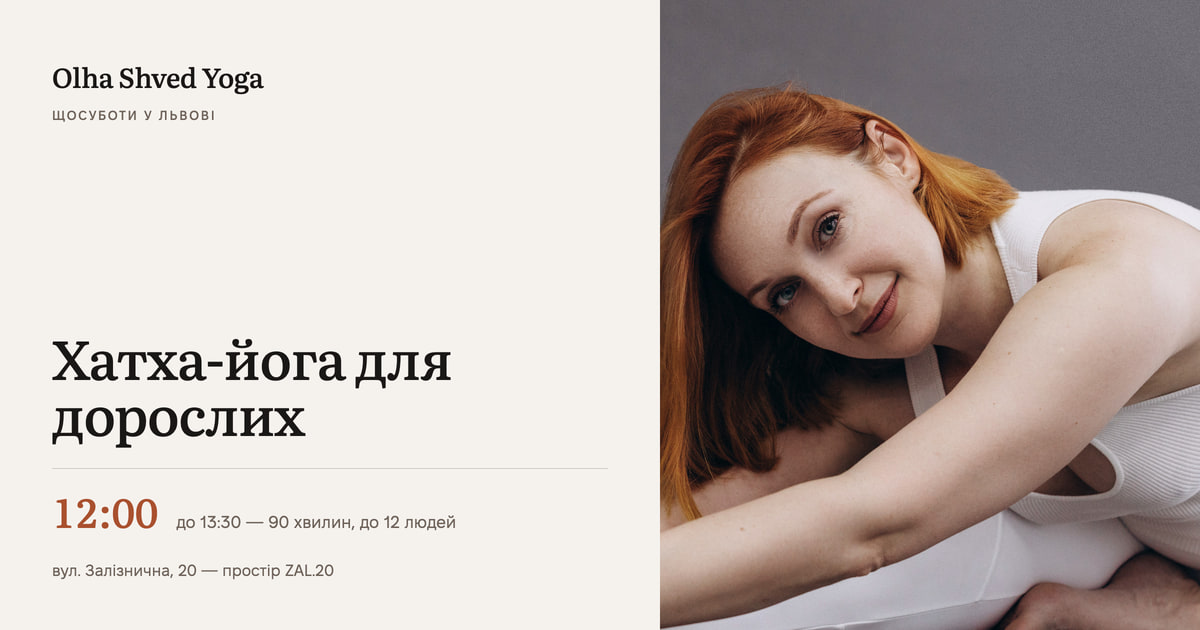
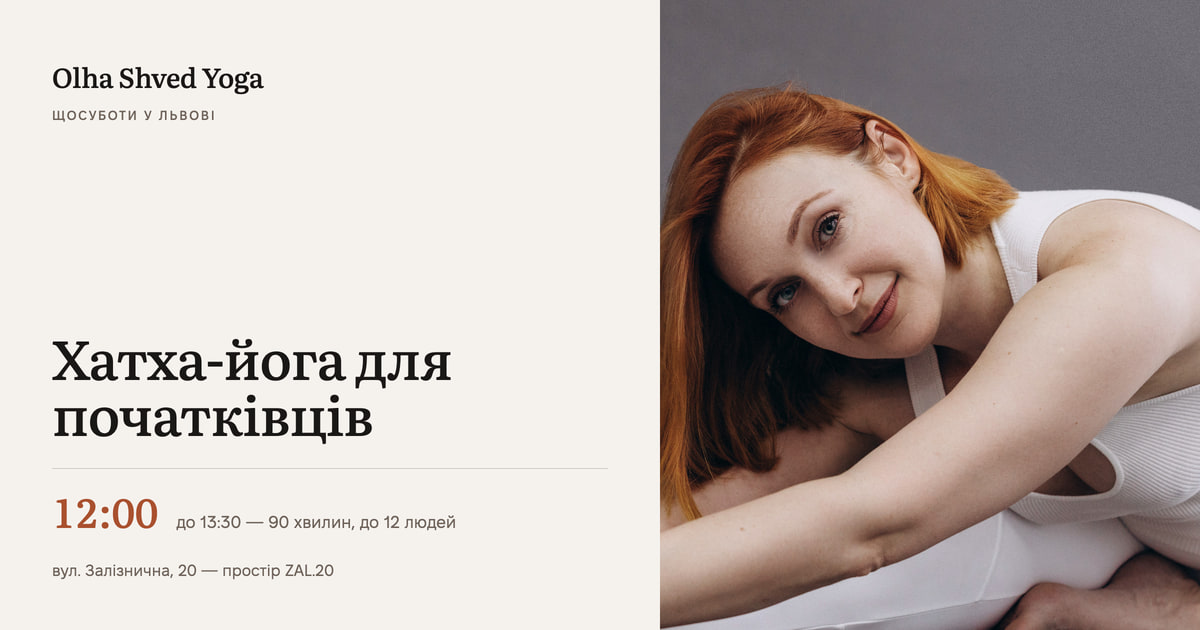
content: направление переименовано в «Хатха-йога для початківців»
Новое название по всей странице: герой, переключатель напрямів, расписание,
«Про мене», мета-описание и alt соц-картинки. Соц-карточки пересобраны —
название есть на двух из трёх.

Глоссарий переписан: «йога для початківців» стояла в _Avoid_ с обоснованием
«початківці — це аудиторія напряму, а не його назва». Решение клиента главнее,
в _Avoid_ теперь старая формулировка.

Попутно починена регрессия: ряд расписания был flex-wrap, и с длинным
названием время срывалось на отдельную строку и липло влево — ряды
перестали совпадать (134px против 104px на 390). Теперь ряд — сетка из двух
колонок, время остаётся справа на уровне первой строки названия.

Claude-Session: https://claude.ai/code/session_01UWm9iWKT7KGwptHhFos538

Changed region(s): [[0.0308, 0.6333, 0.3083, 0.7238]]

diff --git a/site/src/content/site.ts b/site/src/content/site.ts
@@ -14,13 +14,13 @@ export const meta = {
   brand: "Olha Shved Yoga",
   title: "Olha Shved Yoga — хатха-йога та прасу-йога для вагітних у Львові",
   description:
-    "Хатха-йога для дорослих і прасу-йога для вагітних у Львові. Невеликі групи, щосуботи на вул. Залізнична, 20. Перше заняття — 500 ₴.",
+    "Хатха-йога для початківців і прасу-йога для вагітних у Львові. Невеликі групи, щосуботи на вул. Залізнична, 20. Перше заняття — 500 ₴.",
   locale: "uk_UA",
   lang: "uk",
   // Описание соц-картинки: она собирается в tools/og/build.mjs и лежит в
   // public/og.jpg. Текст на ней — расписание, поэтому alt повторяет его.
   imageAlt:
-    "Оля Швед на килимку. Хатха-йога для дорослих о 12:00 і прасу-йога для вагітних о 14:30, щосуботи у Львові.",
+    "Оля Швед на килимку. Хатха-йога для початківців о 12:00 і прасу-йога для вагітних о 14:30, щосуботи у Львові.",
 } as const;
 
 /**
@@ -56,7 +56,7 @@ export const hero = {
       id: "hatha",
       tab: "Хатха-йога",
       tabTime: "12:00",
-      title: "Хатха-йога для дорослих",
+      title: "Хатха-йога для початківців",
       meta: "Щосуботи 12:00–13:30, 90 хвилин, до 12 людей. Перше заняття 500 ₴.",
       ctaLabel: "Хочу на хатха-йогу",
       alt: "Оля Швед у нахилі вперед із захватом стопи",
@@ -91,7 +91,7 @@ export const hero = {
 export const intro = {
   title: "Привіт, я Оля",
   paragraphs: [
-    "Я викладаю хатха-йогу для дорослих і проводжу заняття з прасу-йоги для вагітних.",
+    "Я викладаю хатха-йогу для початківців і проводжу заняття з прасу-йоги для вагітних.",
     "Люблю рух, людей, теплі розмови й той особливий стан після практики, коли тіло стає сильнішим і при цьому мʼякшим, а продовжувати практику хочеться невпинно.",
     "На мої заняття не потрібно приходити вже сильними та гнучкими. Можна вперше стати на килимок, прийти до мене для знайомства з давньою практикою. Почнемо з того стану, в якому ви є сьогодні.",
     "У нас буде достатньо руху, дихання й уваги до тіла. А ще — легкість, підтримка і можливість усміхнутися, якщо раптом права рука та ліва нога вирішать жити окремим життям.",
@@ -120,7 +120,7 @@ export const napriamy: Napriam[] = [
     time: "12:00",
     timeFrom: "12:00",
     timeTo: "13:30",
-    title: "Хатха-йога для дорослих",
+    title: "Хатха-йога для початківців",
     limit: "до 12 людей",
     paragraphs: [
       "Це практика для людей, які хочуть більше рухатися, почуватися вільніше у своєму тілі та виділяти час на себе.",

diff --git a/tools/og/card.html b/tools/og/card.html
@@ -162,7 +162,7 @@
         <div class="rows">
           <div class="row">
             <span class="time">12:00</span>
-            <span class="name">Хатха-йога<br />для дорослих</span>
+            <span class="name">Хатха-йога<br />для початківців</span>
             <span class="dur">90 хвилин</span>
           </div>
           <div class="row">
@@ -184,7 +184,7 @@
           <p class="brand">Olha Shved Yoga</p>
           <p class="eyebrow">Щосуботи у Львові</p>
         </div>
-        <p class="lead">Хатха-йога для дорослих</p>
+        <p class="lead">Хатха-йога для початківців</p>
         <div class="when">
           <span class="time">12:00</span>
           <span class="sub">до 13:30 — 90 хвилин, до 12 людей</span>

diff --git a/docs/landing-spec.md b/docs/landing-spec.md
@@ -160,6 +160,10 @@
 
 **Видео на мобильном молчало из-за порядка `<source>`.** Браузер берёт первый подходящий источник, а Safari на iOS не проигрывает VP9/Opus в WebM — webm стоял первым. Теперь mp4 первым. Файл для iOS пригоден: проверено по боксам — `avc1` + `mp4a`, `moov` перед `mdat` (faststart). В Chrome с iPhone-UA видео теперь резолвится в mp4 и играет; окончательная проверка — на реальном устройстве после деплоя.
 
+**Назва напряму — «Хатха-йога для початківців».** Рішення замовниці від 19.08.2026; до того напрям звався «для дорослих». Це прямо суперечило записові в `CONTEXT.md`, де «йога для початківців» стояла в `_Avoid_` з обґрунтуванням «початківці — це аудиторія напряму, а не його назва»; глосарій переписано під нове рішення, у `_Avoid_` тепер стара назва.
+
+Побічний ефект, який довелося лагодити: рядок розкладу був `flex-wrap`, і з довшою назвою час зривався на власний рядок і ліпився вліво — два рядки розкладу переставали бути однаковими (134px проти 104px на 390). Рядок переведено на сітку `grid-cols-[minmax(0,1fr)_auto]`: назва переноситься у своїй колонці, час лишається праворуч на рівні першого рядка. На 1280 висоти зрівнялися (109 і 108).
+
 ## Соц-картинки
 
 Три карточки 1200×630, собираются в браузере скриптом `tools/og/build.mjs` по шаблону `tools/og/card.html`: там живые шрифты и палитра сайта, а не приблизительная отрисовка через SVG. Съёмка идёт на DPR 2 и уменьшается до 1200×630 — так текст чище, чем при съёмке 1:1.
@@ -167,7 +171,7 @@
 | файл | что на ней | куда идёт |
 |---|---|---|
 | `public/og.jpg` | фото Олі, оба направления с временем (12:00 і 14:30), длительность, адрес | `og:image` и `twitter:image` всех страниц |
-| `public/social/hatha.jpg` | фото Олі, «Хатха-йога для дорослих», 12:00 до 13:30 | для постов, не подключена к странице |
+| `public/social/hatha.jpg` | фото Олі, «Хатха-йога для початківців», 12:00 до 13:30 | для постов, не подключена к странице |
 | `public/social/prasu.jpg` | фото Олі, «Прасу-йога для вагітних», 14:30 до 16:00 | для постов, не подключена к странице |
 
 Фото для карточек режутся из оригиналов `nadiv-5775` и `nadiv-5822` в портретное окно 540×630 — не из баннеров героя, чтобы лицо было резким.

diff --git a/CONTEXT.md b/CONTEXT.md
@@ -17,8 +17,8 @@ _Avoid_: заняття (у значенні процесу)
 _Avoid_: курс, програма, послуга
 
 **Хатха-йога**:
-Напрям для дорослих без обмежень за станом: асани, дихальні практики, розслаблення. Група — до 12 людей.
-_Avoid_: йога для початківців (початківці — це аудиторія напряму, а не його назва)
+Повна назва напряму — «Хатха-йога для початківців» (рішення замовниці, 19.08.2026; до того напрям звався «для дорослих»). Обмежень за станом немає: асани, дихальні практики, розслаблення. Група — до 12 людей.
+_Avoid_: хатха-йога для дорослих (стара назва), курс для новачків
 
 **Прасу-йога**:
 Напрям для вагітних, з 12 тижнів вагітності та після дозволу лікаря. Група — до 10 людей.
